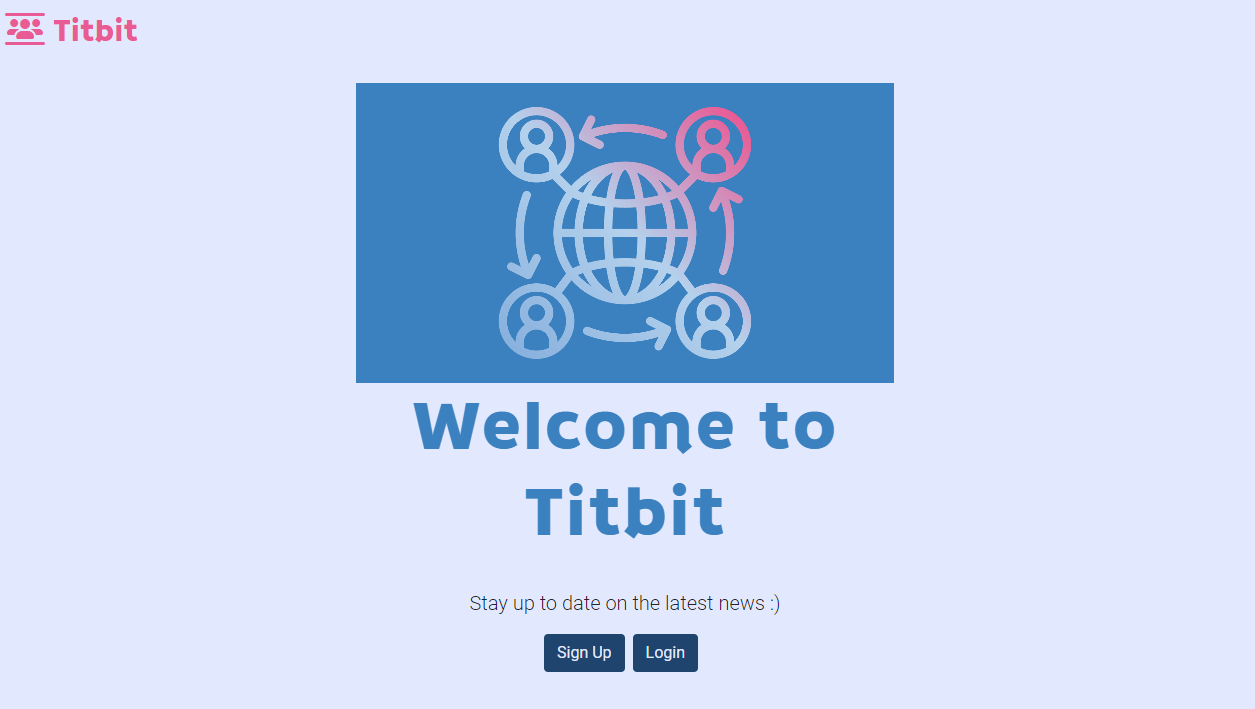
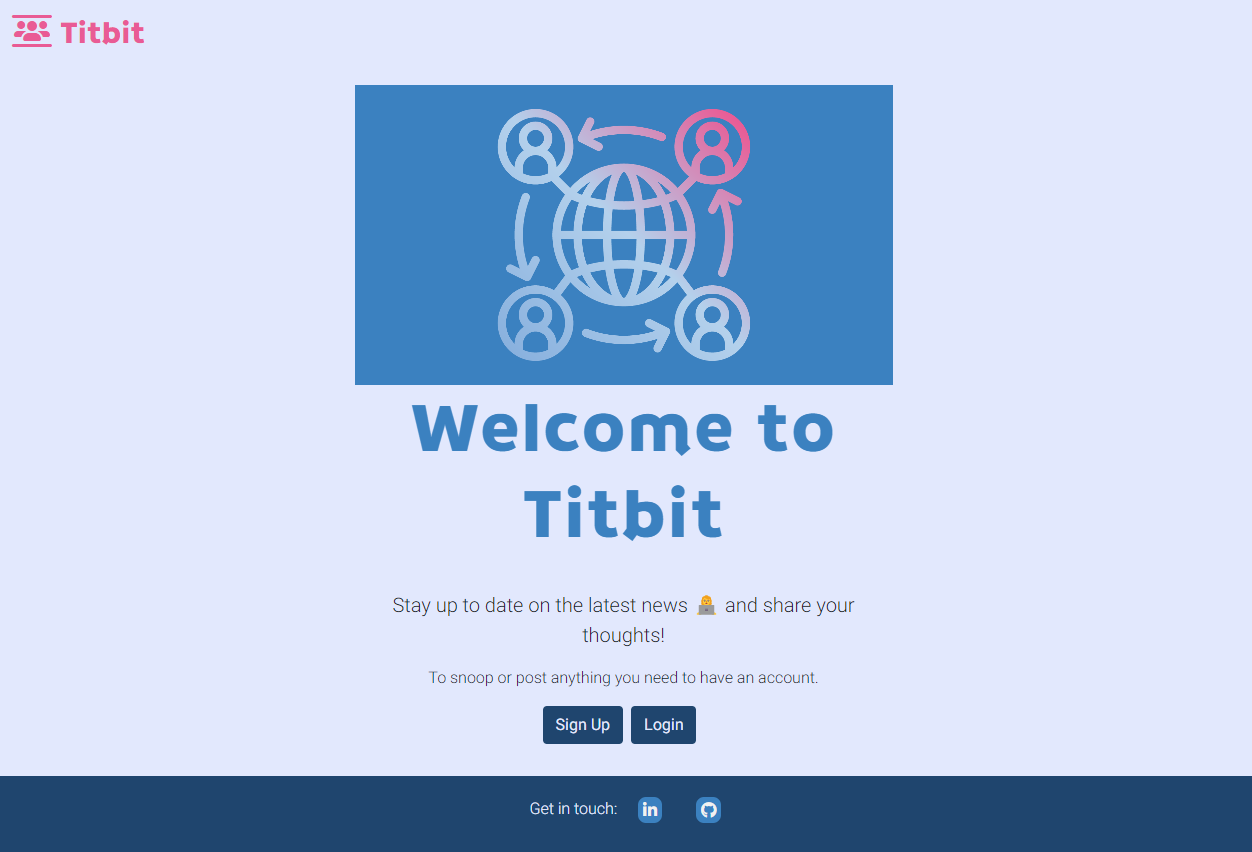
Docs(features): describe messages, password functionaties

Changed region(s): [[0.0, 0.6827, 1.0, 1.0], [0.2804, 0.0931, 0.7165, 0.6516], [0.0, 0.0, 0.1246, 0.0621]]

diff --git a/home/templates/home/index.html b/home/templates/home/index.html
@@ -9,6 +9,7 @@
                 <div class="card-body">
                     <h1 class="display-2">Welcome to Titbit</h1>
                     <p class="mt-3 lead">Stay up to date on the latest news 👩💻 and share your thoughts!</p>
+                    <p class="mt-3">To snoop or post anything you need to have an account.</p>
                     <div class="d-flex justify-content-center  m">
                         <a href="{% url 'account_signup' %}" class="btn small-btn">Sign Up</a>
                         <a href="{% url 'account_login' %}" class="btn small-btn">Login</a>

diff --git a/templates/errors/404.html b/templates/errors/404.html
@@ -16,7 +16,7 @@
                         <a {% if user.is_authenticated %} href="{% url 'post-list' %}" {% else %}
                             href="{% url 'index' %}" {% endif %} class="btn small-btn">Back to Titbit</a>
                     </div>
-                    <p class="mt3">And remember: you haven't seen anything.</p>
+                    <p class="mt-3">And remember: you haven't seen anything.</p>
                 </div>
             </div>
         </div>

diff --git a/README.md b/README.md
@@ -401,7 +401,8 @@ This User Model was built using [Django's Allauth Library](https://django-allaut
 - - -
 
 ##  Features
-⚙
+
+⚙ Scope of functionalities
 - - -
 
 <details>
@@ -409,7 +410,7 @@ This User Model was built using [Django's Allauth Library](https://django-allaut
 
 ### Pages
 
-The website is comprised of X pages which are extended from a base template.
+The website is comprised of 20 pages which are extended from a base template.
 
 1. **Home Page** 
 
@@ -434,7 +435,7 @@ When the user is registered he will be redirected to the main feed and a welcome
 
 ![Sign In Page](documentation/images/sign-in-message.png)
 
-4. **Logout Page**
+4. **Sing Out Page**
 
 When the user wants to finish their session and logout, they can do so from the nav menu. When a user clicks the logout button they're met with a page asking them to confirm they want to log out. 
 ![Sign out Page](documentation/images/sing-out.png)
@@ -483,7 +484,7 @@ This feed can be accessed by clicking on the Titbit logo when the user is logged
 
 ![All Posts List](documentation/images/feed-paginator.png)
 
-8. **Following feed**
+8. **Following Feed**
 
 The following feed containing posts only from users they have followed. 
 Posts are displayed exactly as on the "All Posts List" and offer the same options
@@ -494,7 +495,7 @@ If the user isn't following anyone or the people they're following has no posts,
 
 ![Following Feed](documentation/images/no-following.png)
 
-9. **Post detail**
+9. **Post Detail**
 
 Clicking on a post redirects the site to the  post details page. Below the post, the user will be able to comment on this post via the form and also read all the comments.
 
@@ -508,7 +509,7 @@ The comment has a rose border and the reply is small and has a blue border for t
 
 ![Post detail Page](documentation/images/comment.png)
 
-10. **Edit post**
+10. **Edit Post**
 
 The author can edit his post by clicking on the edit icon presents in his own posts. After edition the user need to submit it clicking on the button. 
 There are a button to go back without edition.
@@ -557,11 +558,20 @@ The user can click on the profiles in the list to view them and follow them if h
 There's a list from all users.
 ![Users](documentation/images/users.png)
 
+15. **Change Password**
 
-15. **Error pages**
+When the user access your own profile and click on the edit icon to update his profile, there's a link to change his password.
+
+16. **Reset Password**
+
+In case the user forgets his password to log in, he can click on the "Reset your password" option, being redirected and asked for his email to receive the link to reset his password.
+
+For this function the email was created: titbit_team@outlook.com. This functionality was first tested in the Backend.
+
+17. **Error custom pages**
 
 If a user ends up on a page that either doesn't exist or that they shouldn't be on then they'll be shown an error page with a button to bring them back to their feed.
-There are 403, 404, 405 and 500 error pages.
+There are 403, 404, 405 and 500 error custom pages.
 
 Error 403
 [Error 403](documentation/images/error-403.png)
@@ -572,9 +582,10 @@ Error 404
 Error 405
 [Error 405](documentation/images/error-405.png)
 
-
 Error 500
 [Error 500](documentation/images/error-500.png)
+
+
 
 ### Elements found on each page
 
@@ -630,7 +641,6 @@ There's a placeholder in the form for the user to "Post the news :-)".
 
 * **Comment Form**
 
-
 The user can comment posts clicking on the post then filling the comment form and submit it at the post detail page.
 There is only a content input. Clicking on the comment will bring up the reply input that is using the same comment form to submit the reply.
 
@@ -660,19 +670,18 @@ Comments are viewed under a post at post detail page and are very similar to pos
 
 ![Comment](documentation/images/comment-one.png)
 
-
-Comments can be deleted by the comment author or post author and edited only by the comment author. There's the option to go back to the post or delete.
+Comments can be deleted by the comment author or post author or admin, and edited only by the comment author. There's the option to go back to the post or delete.
 
 ![Comment Delete](documentation/images/comment-delete.png)
 
 
 * **Reply a comment**
-Replies are displayed under the comment parent, small and has a blue border.
+Replies are displayed under the comment parent, small and has a blue border. 
 
 ![Comment and Reply](documentation/images/comment.png)
 
-When the user click on the comment icon on the comment will appear the reply form and the information that the reply cannot be edited and only deleted from reply author.
-The admin can delete it as well.
+When the user click on the comment icon on the comment will appear the reply form due to toggle function and the information that the reply cannot be edited, only deleted from reply author or admin.
+
 
 ![Reply](documentation/images/reply-comment.png)
 
@@ -687,6 +696,7 @@ There are a hover effect changing the blue color  to rose to gain attention.
 
 * **Notifications**
 There are three types of notifications: like, comment and follow that permit the user knows what's going on.
+There are built with custom tags.
 The notifications tab on the nav menu shows the number of unread notifications and when a user clicks it a dropdown will appear with a list of their notifications. If a user clicks on the notification it will bring them to the user or post, to do with the notification. 
 
 ![Notifications](documentation/images/notifications.png)
@@ -700,6 +710,13 @@ The pagination is implemented in the all posts list, following feed, posts on pr
 The user can easily navigate with the paginator.
 
 ![Pagination](documentation/images/pagination.png)
+
+* **Messages**
+Some personalized messages are displayed after certain user actions.
+
+![Message](documentation/images/message-post.png) 
+![Message](documentation/images/message-sign-in.png) 
+![Message](documentation/images/message-sign-out.png)
 
 
 - - -
@@ -734,7 +751,7 @@ I have been mindful during coding to ensure that the website is as accessible fr
 - - -
 
 ##  Technologies Used 
-⚒
+⚒ Project is created with:
 
 <details>
 <summary>👇</summary>
@@ -857,7 +874,7 @@ To clone the repository:
 Please see [TESTING.md](TESTING.md) for all testing performed
 - - -
 
-##  Credits 
+##  References
 ®
 - - -
 
